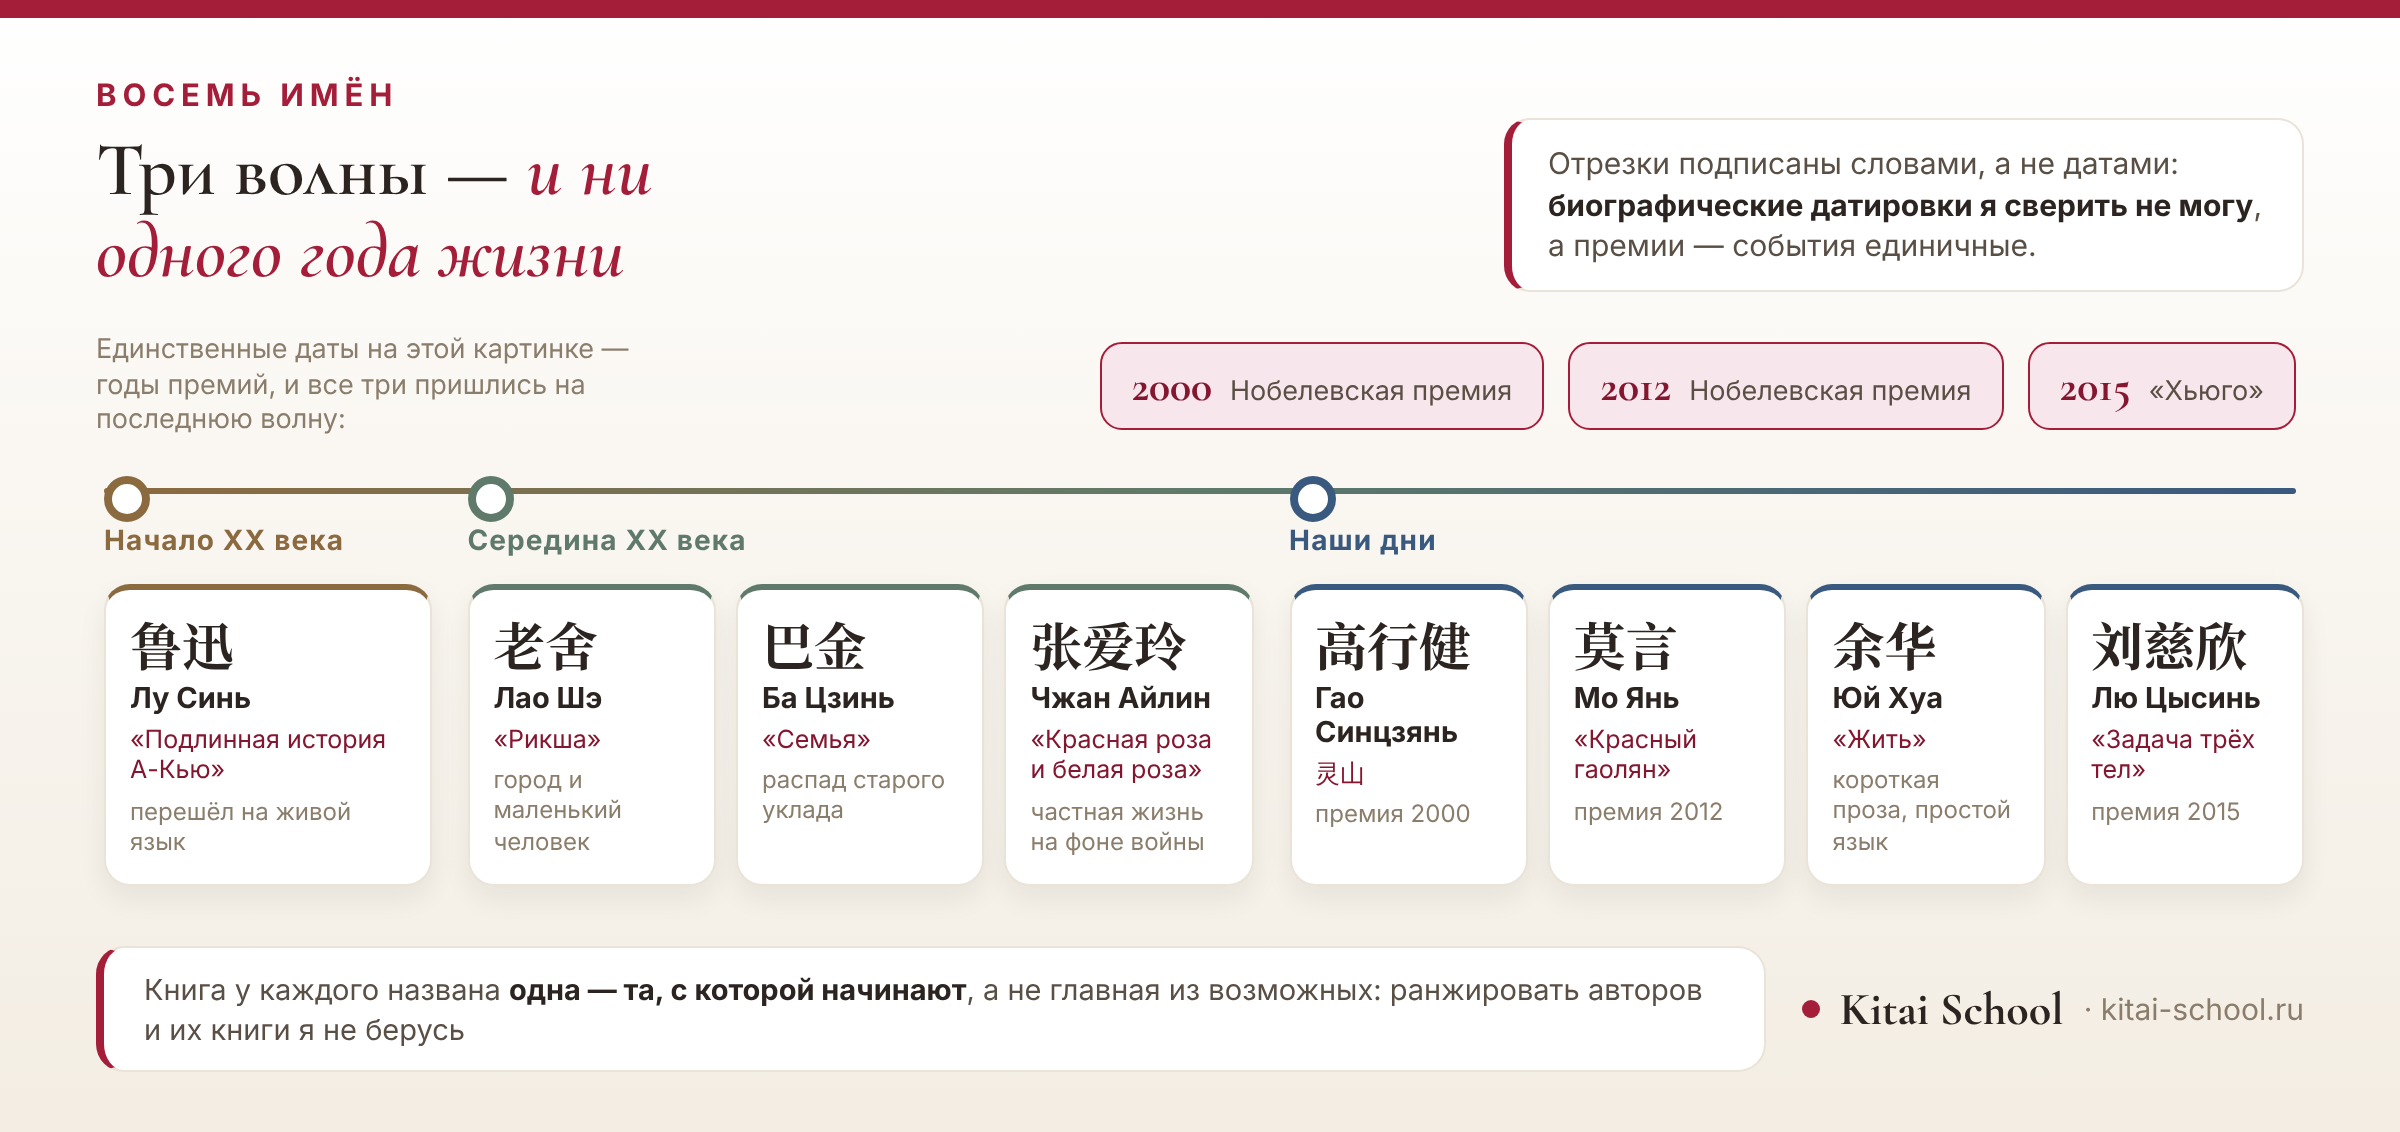
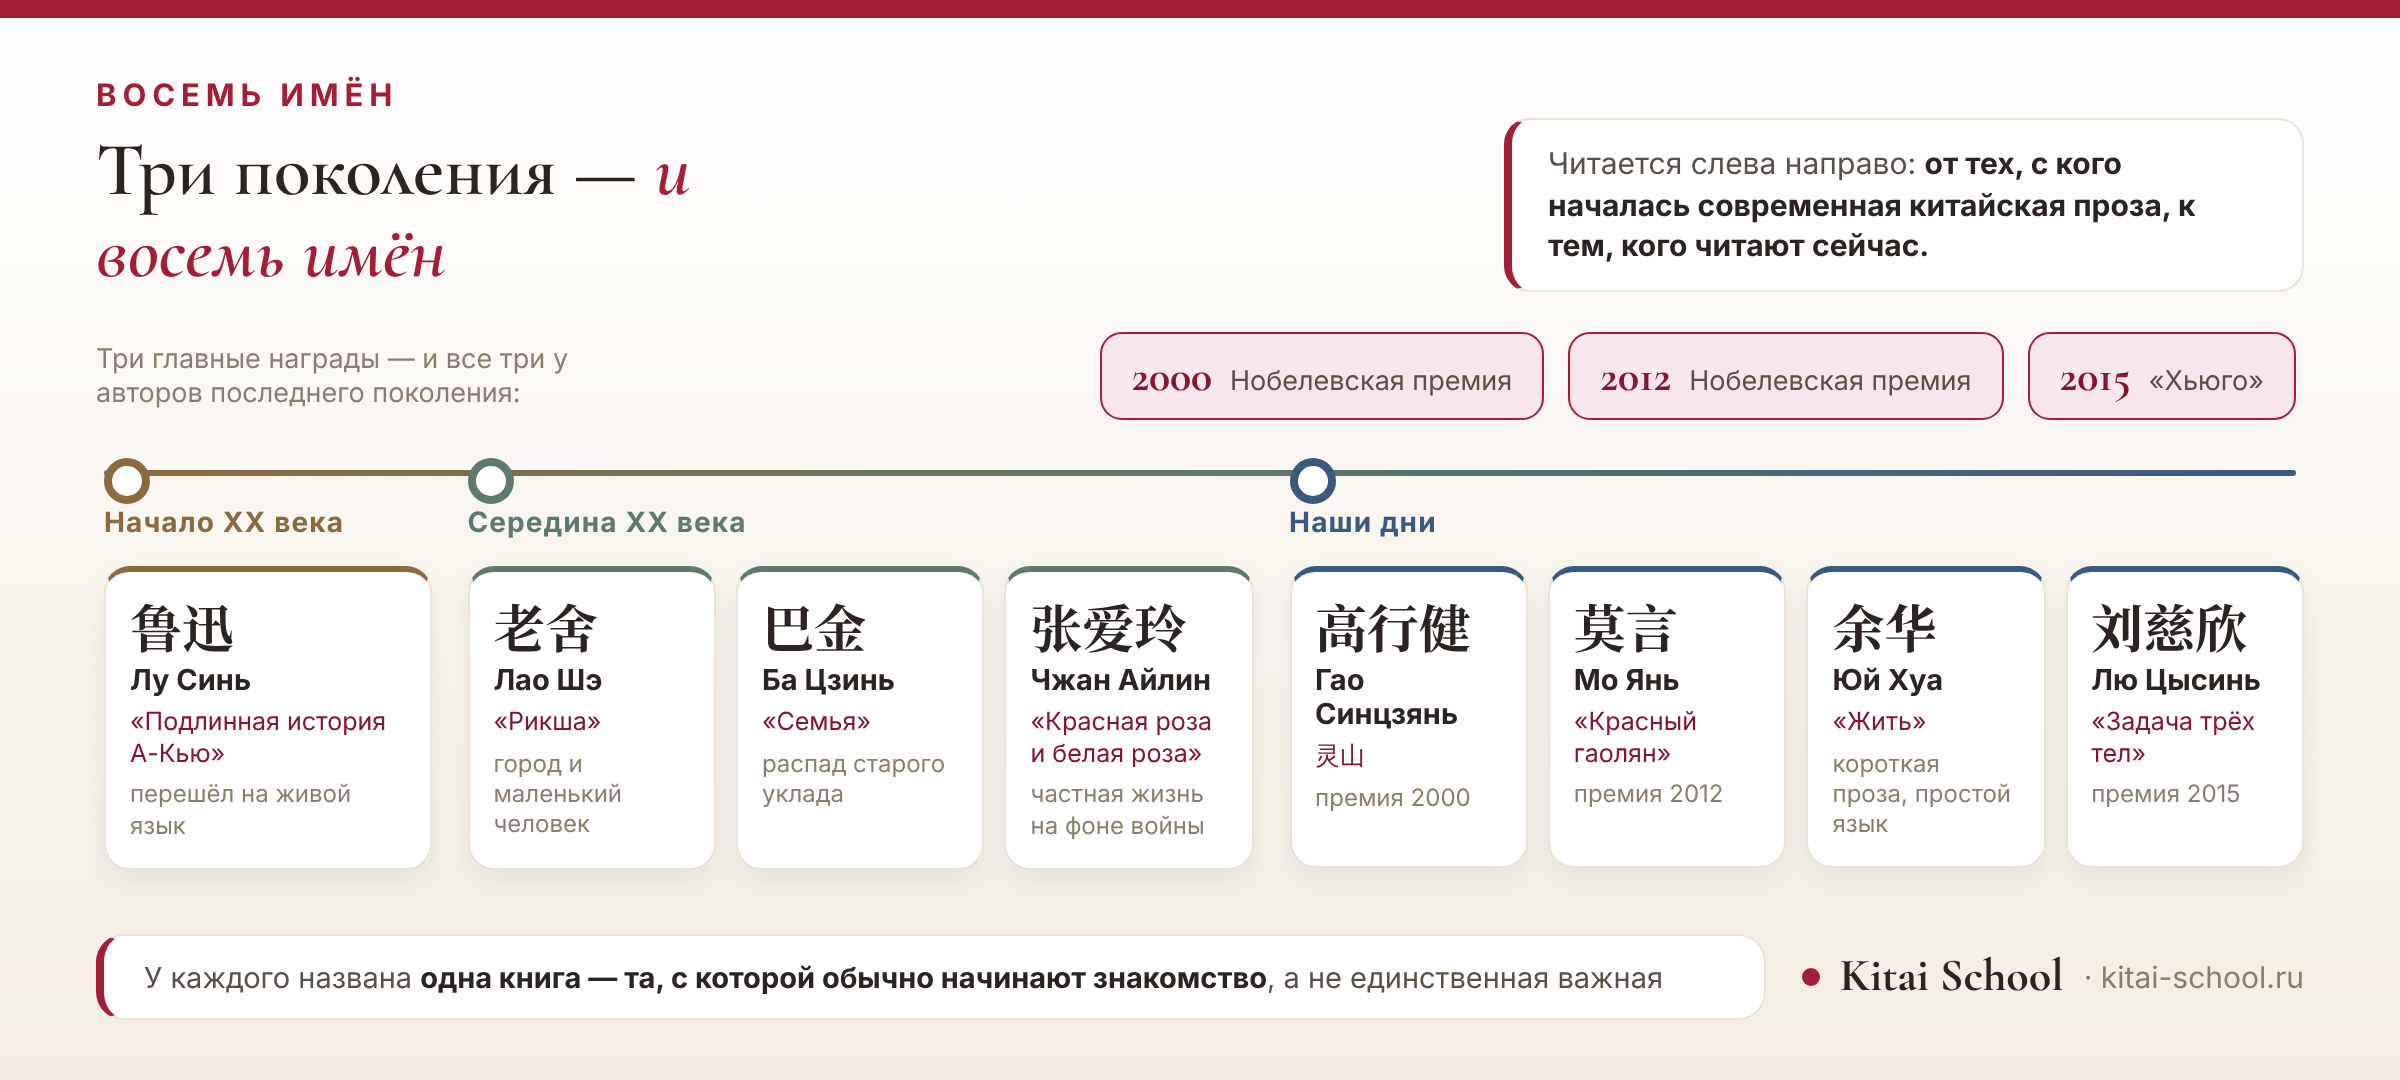
Инфографика к писателям: подписи переписаны для читателя
Заголовок «Три волны — и ни одного года жизни» объяснял моё
ограничение, а не содержание картинки. Теперь «Три поколения —
и восемь имён», пояснение говорит, что лента читается слева
направо, а оговорка про невозможность сверить датировки осталась
в тексте статьи, где ей и место. Высота кадра срезана с 566 до
540, подпись и alt в статье приведены в соответствие.

Claude-Session: https://claude.ai/code/session_017dS7Wuw6MNB5fnZSr6hVh2

diff --git a/content/blog/samye-izvestnye-kitayskie-pisateli.TILDA.html b/content/blog/samye-izvestnye-kitayskie-pisateli.TILDA.html
@@ -255,7 +255,7 @@
 
 <p><b>Чжан Айлин</b> писала о частной жизни на фоне большой истории: о влюблённостях, расчётах и браках в то время, когда вокруг шла война. Её проза не про эпоху, а про людей внутри неё.</p>
 
-<figure class="ks-fig"><img src="FIG_PLACEHOLDER" alt="Лента времени тремя волнами с карточками восьми китайских писателей и тремя метками премий" width="1200" height="566"><figcaption>Три волны и восемь имён. Годов жизни на ленте нет — только три года премий.</figcaption></figure>
+<figure class="ks-fig"><img src="FIG_PLACEHOLDER" alt="Лента времени: три поколения китайских писателей, восемь имён с книгами и три награды" width="1200" height="540"><figcaption>Три поколения слева направо: от тех, с кого началась современная проза, к тем, кого читают сейчас.</figcaption></figure>
 
 <p>Про Чжан Айлин добавлю одну вещь про язык: её фраза про лунный свет у кровати со временем стала ходовым сетевым словом — об этом есть разбор: <a href="https://kitai-school.ru/article/krasivye-slova-na-kitajskom" target="_blank" rel="noopener">красивые слова на китайском</a>.</p>
 

diff --git a/content/blog/samye-izvestnye-kitayskie-pisateli.html b/content/blog/samye-izvestnye-kitayskie-pisateli.html
@@ -281,7 +281,7 @@
 
 <p><b>Чжан Айлин</b> писала о частной жизни на фоне большой истории: о влюблённостях, расчётах и браках в то время, когда вокруг шла война. Её проза не про эпоху, а про людей внутри неё.</p>
 
-<figure class="ks-fig"><img src="FIG_PLACEHOLDER" alt="Лента времени тремя волнами с карточками восьми китайских писателей и тремя метками премий" width="1200" height="566"><figcaption>Три волны и восемь имён. Годов жизни на ленте нет — только три года премий.</figcaption></figure>
+<figure class="ks-fig"><img src="FIG_PLACEHOLDER" alt="Лента времени: три поколения китайских писателей, восемь имён с книгами и три награды" width="1200" height="540"><figcaption>Три поколения слева направо: от тех, с кого началась современная проза, к тем, кого читают сейчас.</figcaption></figure>
 
 <p>Про Чжан Айлин добавлю одну вещь про язык: её фраза про лунный свет у кровати со временем стала ходовым сетевым словом — об этом есть разбор: <a href="https://kitai-school.ru/article/krasivye-slova-na-kitajskom" target="_blank" rel="noopener">красивые слова на китайском</a>.</p>
 

diff --git a/content/img-pis.py b/content/img-pis.py
@@ -199,23 +199,23 @@ h2 i{font-style:italic;color:var(--brick)}
   <div class="top">
     <div>
       <div class="eyebrow">Восемь имён</div>
-      <h2>Три волны — <i>и ни одного года жизни</i></h2>
+      <h2>Три поколения — <i>и восемь имён</i></h2>
     </div>
-    <div class="hint">Отрезки подписаны словами, а не датами: <b>биографические датировки я сверить не могу</b>, а премии — события единичные.</div>
+    <div class="hint">Читается слева направо: <b>от тех, с кого началась современная китайская проза, к тем, кого читают сейчас.</b></div>
   </div>
 
-  <div class="prizes"><span class="plead">Единственные даты на этой картинке — годы премий, и все три пришлись на последнюю волну:</span>%(prizes)s</div>
+  <div class="prizes"><span class="plead">Три главные награды — и все три у авторов последнего поколения:</span>%(prizes)s</div>
 
   <div class="line">
     <div class="waves">%(waves)s</div>
   </div>
 
   <div class="foot">
-    <div class="msg">Книга у каждого названа <b>одна — та, с которой начинают</b>, а не главная из возможных: ранжировать авторов и их книги я не берусь</div>
+    <div class="msg">У каждого названа <b>одна книга — та, с которой обычно начинают знакомство</b>, а не единственная важная</div>
     <div class="brand"><span class="dot2"></span><b>Kitai School</b><span>&middot; kitai-school.ru</span></div>
   </div>
 </div>
-</body></html>""" % dict(fonts=FONTS, vars=VARS, h=566, waves=waves, prizes=prizes)
+</body></html>""" % dict(fonts=FONTS, vars=VARS, h=540, waves=waves, prizes=prizes)
 
 open(S + "pis-info.html", "w", encoding="utf-8").write(info)
 

diff --git a/content/build-pis.py b/content/build-pis.py
@@ -11,8 +11,8 @@ HERO = "HERO_PLACEHOLDER"
 FIG = "FIG_PLACEHOLDER"
 HERO_ALT = ("Книжный разворот: слева фраза книжным языком столбцами, справа та же мысль "
             "живым языком строками")
-FIG_ALT = ("Лента времени тремя волнами с карточками восьми китайских писателей и тремя "
-           "метками премий")
+FIG_ALT = ("Лента времени: три поколения китайских писателей, восемь имён с книгами и три "
+           "награды")
 
 src = open(SRC, encoding="utf-8").read()
 css = re.search(r'<link rel="preconnect".*?</style>', src, re.S).group(0)
@@ -268,7 +268,7 @@ AUTHOR_ROWS
 
 <p><b>Чжан Айлин</b> писала о частной жизни на фоне большой истории: о влюблённостях, расчётах и браках в то время, когда вокруг шла война. Её проза не про эпоху, а про людей внутри неё.</p>
 
-<figure class="ks-fig"><img src="FIG_SRC" alt="FIG_ALT" width="1200" height="566"><figcaption>Три волны и восемь имён. Годов жизни на ленте нет — только три года премий.</figcaption></figure>
+<figure class="ks-fig"><img src="FIG_SRC" alt="FIG_ALT" width="1200" height="540"><figcaption>Три поколения слева направо: от тех, с кого началась современная проза, к тем, кого читают сейчас.</figcaption></figure>
 
 <p>Про Чжан Айлин добавлю одну вещь про язык: её фраза про лунный свет у кровати со временем стала ходовым сетевым словом — об этом есть разбор: KRAS_LINK.</p>
 

diff --git a/content/tz-pisateli.md b/content/tz-pisateli.md
@@ -119,7 +119,7 @@
 
 **Обложка: разворот книги, где слева старое письмо, а справа новое.** На левой странице — столбцы иероглифов сверху вниз, справа налево, без знаков препинания; на правой — те же строки горизонтально, с запятыми и точками. Между страницами — корешок. Подпись: главная реформа была не в сюжетах, а в том, на каком языке пишут.
 
-**Инфографика: лента времени тремя волнами.** Горизонтальная ось без годов — только три подписанных отрезка: начало двадцатого века, середина, наши дни. На каждом стоят карточки с именами (иероглифы, русское имя, главная книга), а над лентой — три метки премий: 2000, 2012, 2015. Подвал: годов жизни на ленте нет намеренно.
+**Инфографика: лента времени тремя поколениями.** Горизонтальная ось без годов — только три подписанных отрезка: начало двадцатого века, середина, наши дни. На каждом стоят карточки с именами (иероглифы, русское имя, книга), а над лентой — три метки премий: 2000, 2012, 2015. **Подписи на картинке обращены к читателю, а не к редакции:** оговорка про невозможность сверить датировки осталась в тексте статьи, а с картинки убрана — читателю она ничего не объясняет.
 
 **Разведение.** Полный список занятых за сессию приёмов — в ТЗ «Китайской нумерологии», лист 5; после него добавились латунная табличка 888, сетка девяти цифр, след от предмета на столе, скелет конструкции с вынимаемым блоком, именная группа со скобками, нарастающая строка, бронзовый сосуд, купол неба, форма на вешалке, лист свода с пустыми плашками, фонарь с запиской, разрез двух шариков, кадр видоискателя, пустая ячейка в фразе, шесть схем с цветовой разметкой, столбик с чертой порога, парные шкалы с отсечкой, дерево с развилкой, зеркальная таблица с осью, рамка телефона и стопка слоёв. Книжный разворот и лента времени — приёмы новые. **Честно признаю близость:** «мерная лента» тоже была полосой с делениями, а «нарастающая строка» тоже шла слева направо. Отличие ленты времени в том, что на ней нет чисел вовсе — отрезки подписаны словами, и это прямо следует из ограничения статьи: датировать я не могу.
 
